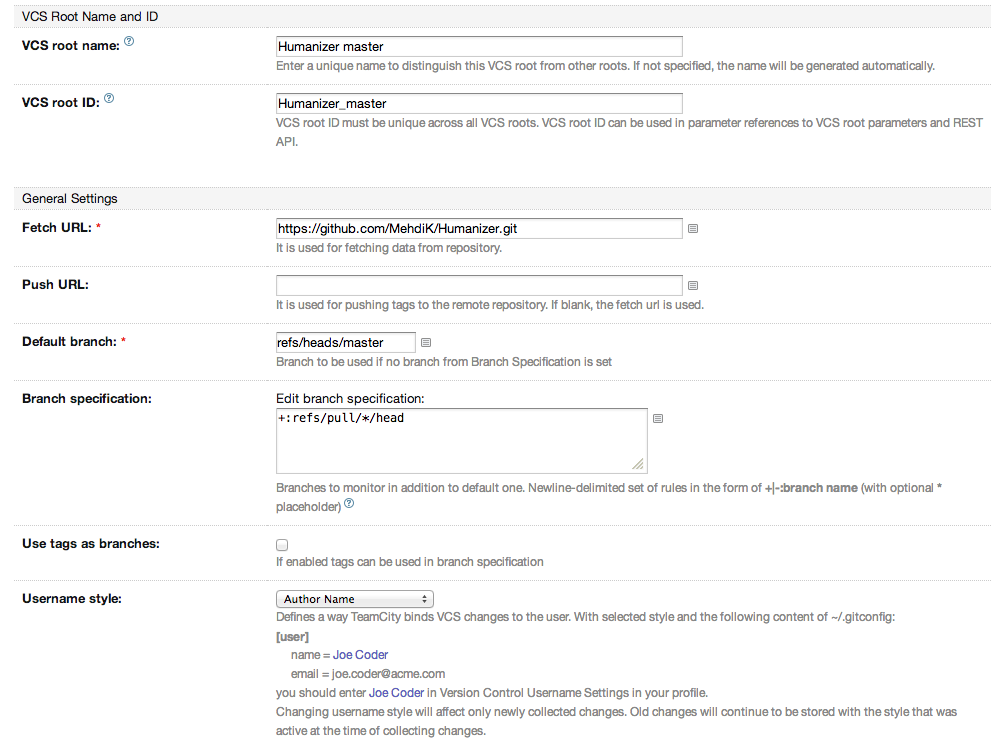
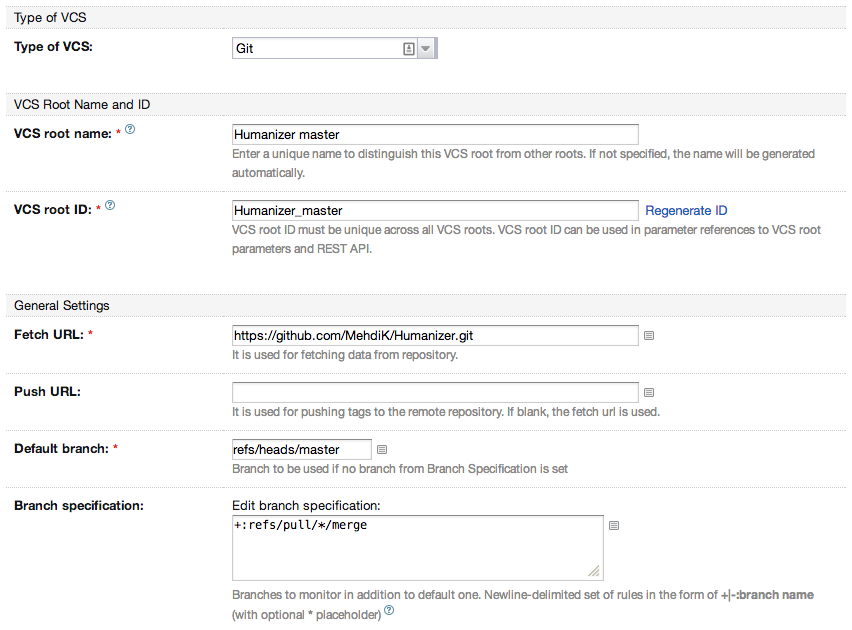
fixed the GitHub PR branch spec

diff --git a/src/documents/posts/2013-12-25-continuous-integration-delivery-github-teamcity.html.md b/src/documents/posts/2013-12-25-continuous-integration-delivery-github-teamcity.html.md
@@ -97,7 +97,7 @@ The important [git VCS settings](http://confluence.jetbrains.com/display/TCD8/Gi
  ![GitHub repository fetch URL](/get/BlogPictures/cd-for-github-with-teamcity/repo-fetch-url.png)
 
  - 'Default branch' should be set to your master branch which is where your CI should focus more. So we set it to `refs/heads/master` which is the git master branch. If you're wondering where that comes from run `git show-ref master` command on your git repo.
- - We want to also monitor pull request branches so we set the 'Branch specification' to `+refs/pull/*/head` which uses wildcard to monitor all pull request branches.
+ - We want to also monitor pull request branches so we set the 'Branch specification' to `+refs/pull/*/merge` which uses wildcard to monitor pull request merged branches.
  
 I leave the rest of the settings to their default values. Before you save, make sure to 'Test connection' so that TeamCity can find your repository with the settings you have provided. The button is located down the bottom of the page:
 
